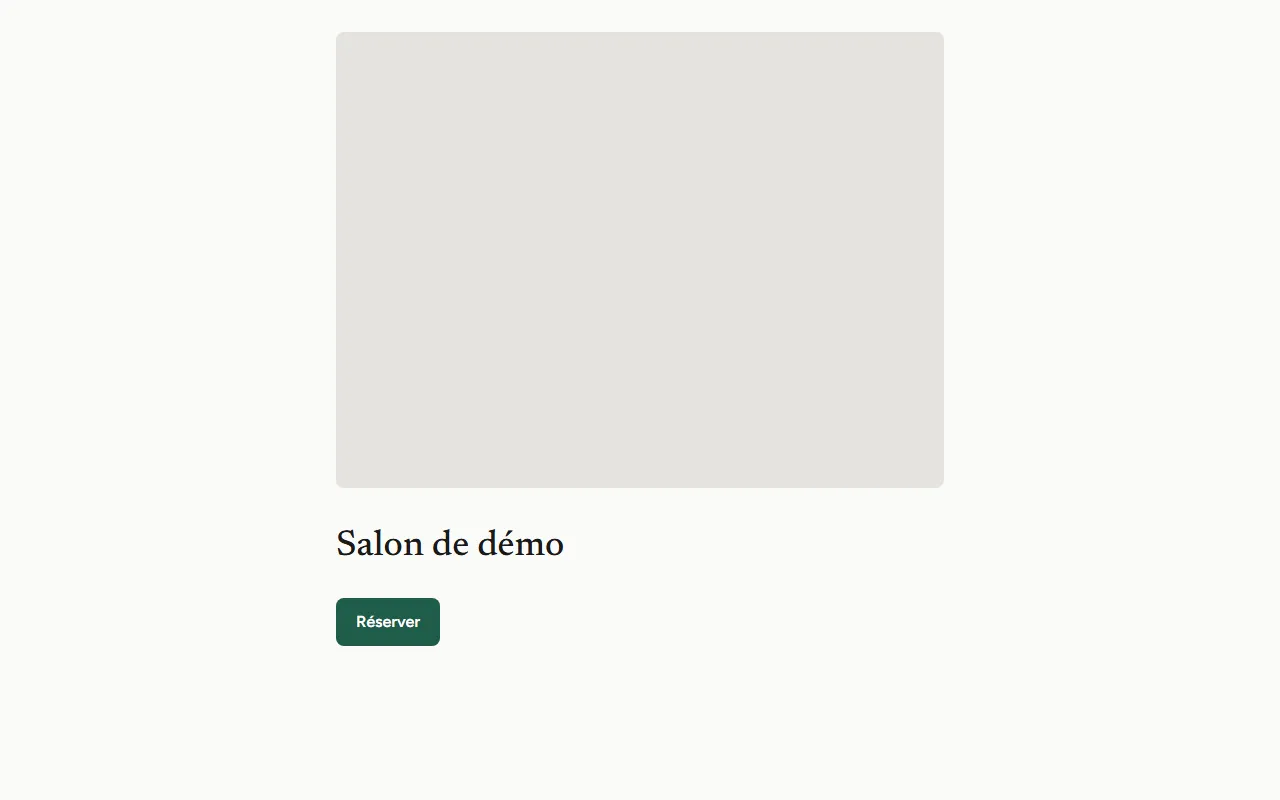
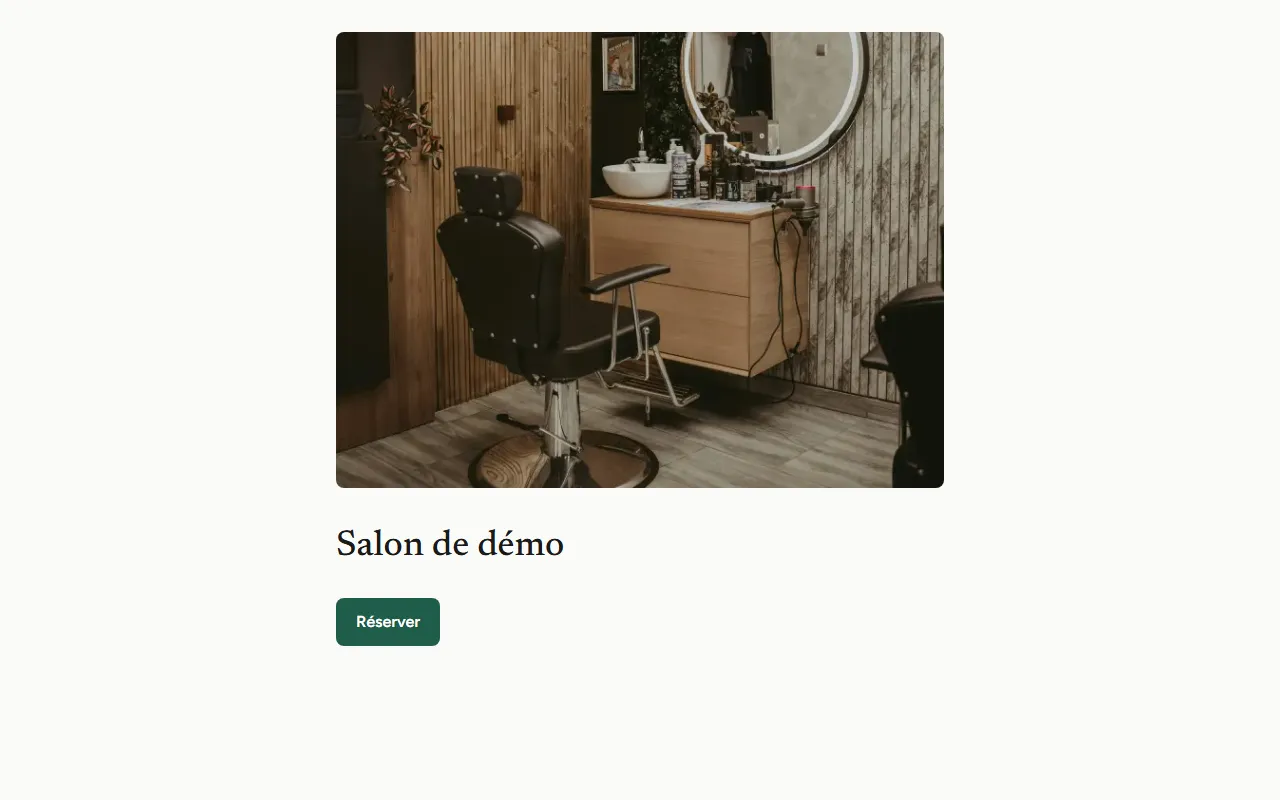
feat: photo d'accueil recadrée en 4:3 (#20)
- Photo Unsplash de Stefan Vibes (fauteuil, meuble en bois, miroir rond),
  recadrée en 4:3 sans l'écran de télévision ni son ombre : zone
  2400 x 1800 à partir de la ligne 1490 de l'original 2400 x 3600,
  exportée en web/public/accueil-salon.webp (1600 x 1200, 165 Ko).
- Accueil : next/image (import statique, dimensions fixes, preload,
  sizes adapté au conteneur).
- Charte : source et recadrage cités (§6), captures mises à jour.

Changed region(s): [[0.25, 0.0312, 0.75, 0.625]]

diff --git a/web/app/page.tsx b/web/app/page.tsx
@@ -1,7 +1,9 @@
+import Image from "next/image";
 import { EnTeteSalon } from "@/components/en-tete-salon";
 import { titreAccueil } from "@/lib/accueil";
 import { env } from "@/lib/env";
 import { lireSalon } from "@/lib/salon";
+import photoSalon from "@/public/accueil-salon.webp";
 
 // Page publique : doit rester statique (nom du salon en cache, revalidé chaque
 // minute). Le build échoue si elle devient dynamique.
@@ -12,9 +14,15 @@ export default async function Accueil() {
 
   return (
     <main className="mx-auto flex w-full max-w-2xl flex-1 flex-col px-4 pt-4 sm:px-8 sm:pt-8">
-      {/* Emplacement de la photo du salon (4:3), jamais de texte dessus.
-          Photo à choisir par Sparta (charte §6). */}
-      <div aria-hidden="true" className="aspect-4/3 w-full rounded-base bg-separateur" />
+      {/* Photo de démonstration, déjà recadrée en 4:3 (1600 × 1200, source dans
+          docs/charte-graphique.md §6). Jamais de texte dessus. */}
+      <Image
+        src={photoSalon}
+        alt="Fauteuil de coiffure devant un meuble en bois et un miroir rond"
+        sizes="(min-width: 42rem) 608px, calc(100vw - 2rem)"
+        preload
+        className="aspect-4/3 h-auto w-full rounded-base object-cover"
+      />
       <EnTeteSalon nom={titreAccueil(salon)} />
     </main>
   );

diff --git a/docs/charte-graphique.md b/docs/charte-graphique.md
@@ -102,7 +102,12 @@ toute façon les éléments inactifs du seuil de contraste.
 - Sous la photo, sur fond uni : un titre court et un seul bouton « Réserver ».
 - Jamais de texte posé sur la photo.
 
-Source de la photo : *à compléter à l'étape 2*.
+Photo retenue : [fauteuil de barbier, meuble en bois et miroir rond](https://unsplash.com/photos/barber-chair-in-modern-salon-workspace-N15dzf3dAUk),
+par [Stefan Vibes](https://unsplash.com/@eusuntvibes) sur Unsplash ([licence
+Unsplash](https://unsplash.com/license) : usage gratuit, modification permise).
+Recadrée en 4:3, centrée sur le fauteuil et le miroir, écran de télévision
+exclu : zone de 2400 × 1800 px à partir de la ligne 1490 de l'original
+2400 × 3600, exportée en `web/public/accueil-salon.webp` (1600 × 1200, WebP).
 
 ## 7. Cartes de prestations
 
@@ -135,8 +140,6 @@ Sources d'inspiration, pas des modèles à reproduire.
   previews Vercel ; elle répond 404 en production.
 
 ## 10. Captures
-
-Emplacement de la photo encore vide : photo d'accueil à choisir (§6).
 
 | | 360 px | 1280 px |
 | --- | --- | --- |
